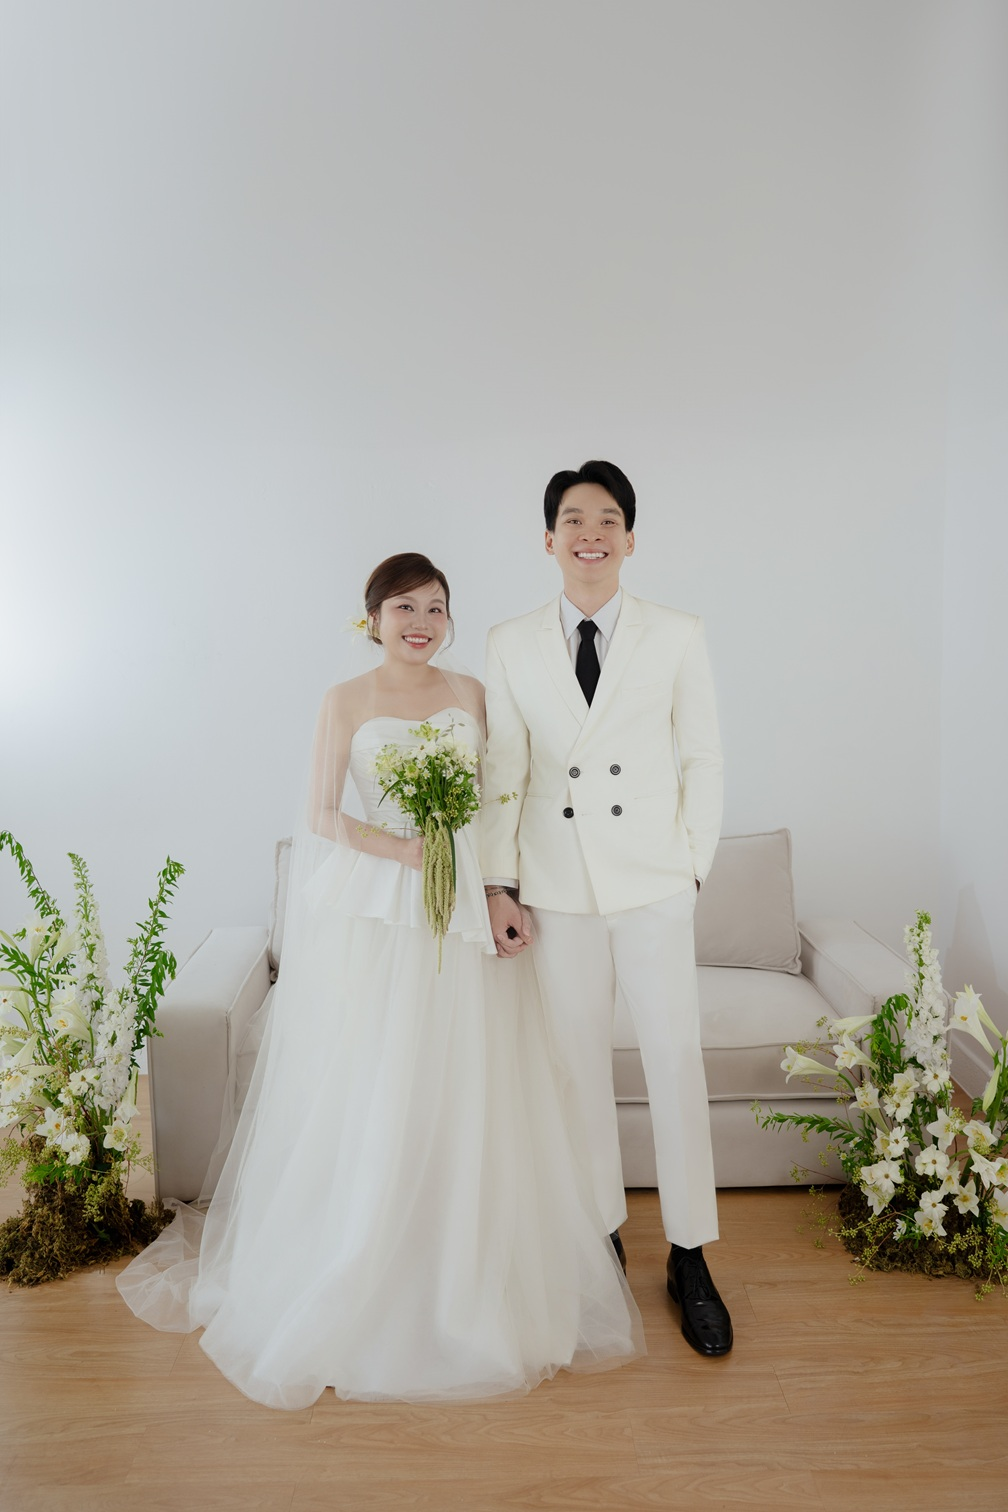
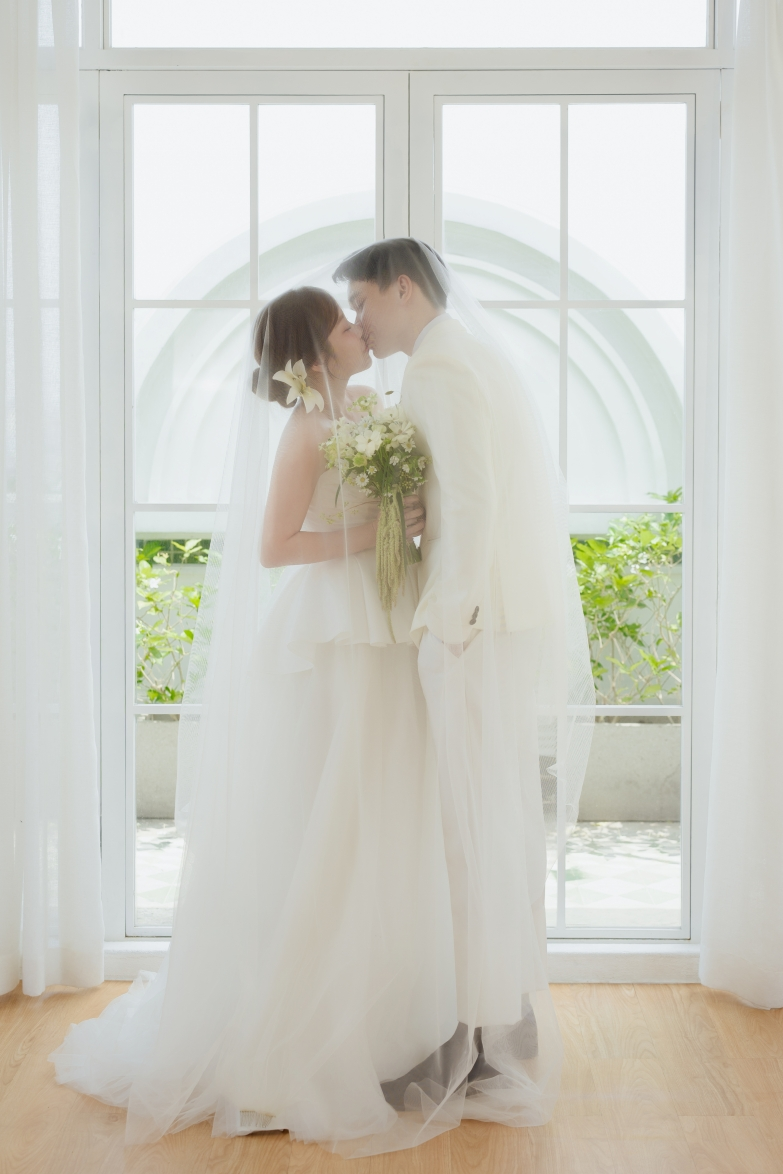
wishes

diff --git a/src/containers/WishContainer/WishContainer.jsx b/src/containers/WishContainer/WishContainer.jsx
@@ -94,11 +94,12 @@ function WishContainer() {
               <TextCenter className="h-[80px]">
                 <div
                   className={`py-5 text-white text-3xl font-light ${fzPhotograph.className}`}
+                  style={{ textShadow: "2px 2px 4px #36608a" }}
                 >
                   ✨ Lời chúc phúc ✨
                 </div>
               </TextCenter>
-              <div className="absolute top-[80px] bottom-20 left-0 right-0 overflow-y-scroll">
+              <div className="absolute top-[80px] bottom-20 left-0 right-0 overflow-y-scroll" style={{ textShadow: "1px 1px 1px #36608a" }}>
                 <MasonryWishGrid wishes={wishes} />
               </div>
             </div>
